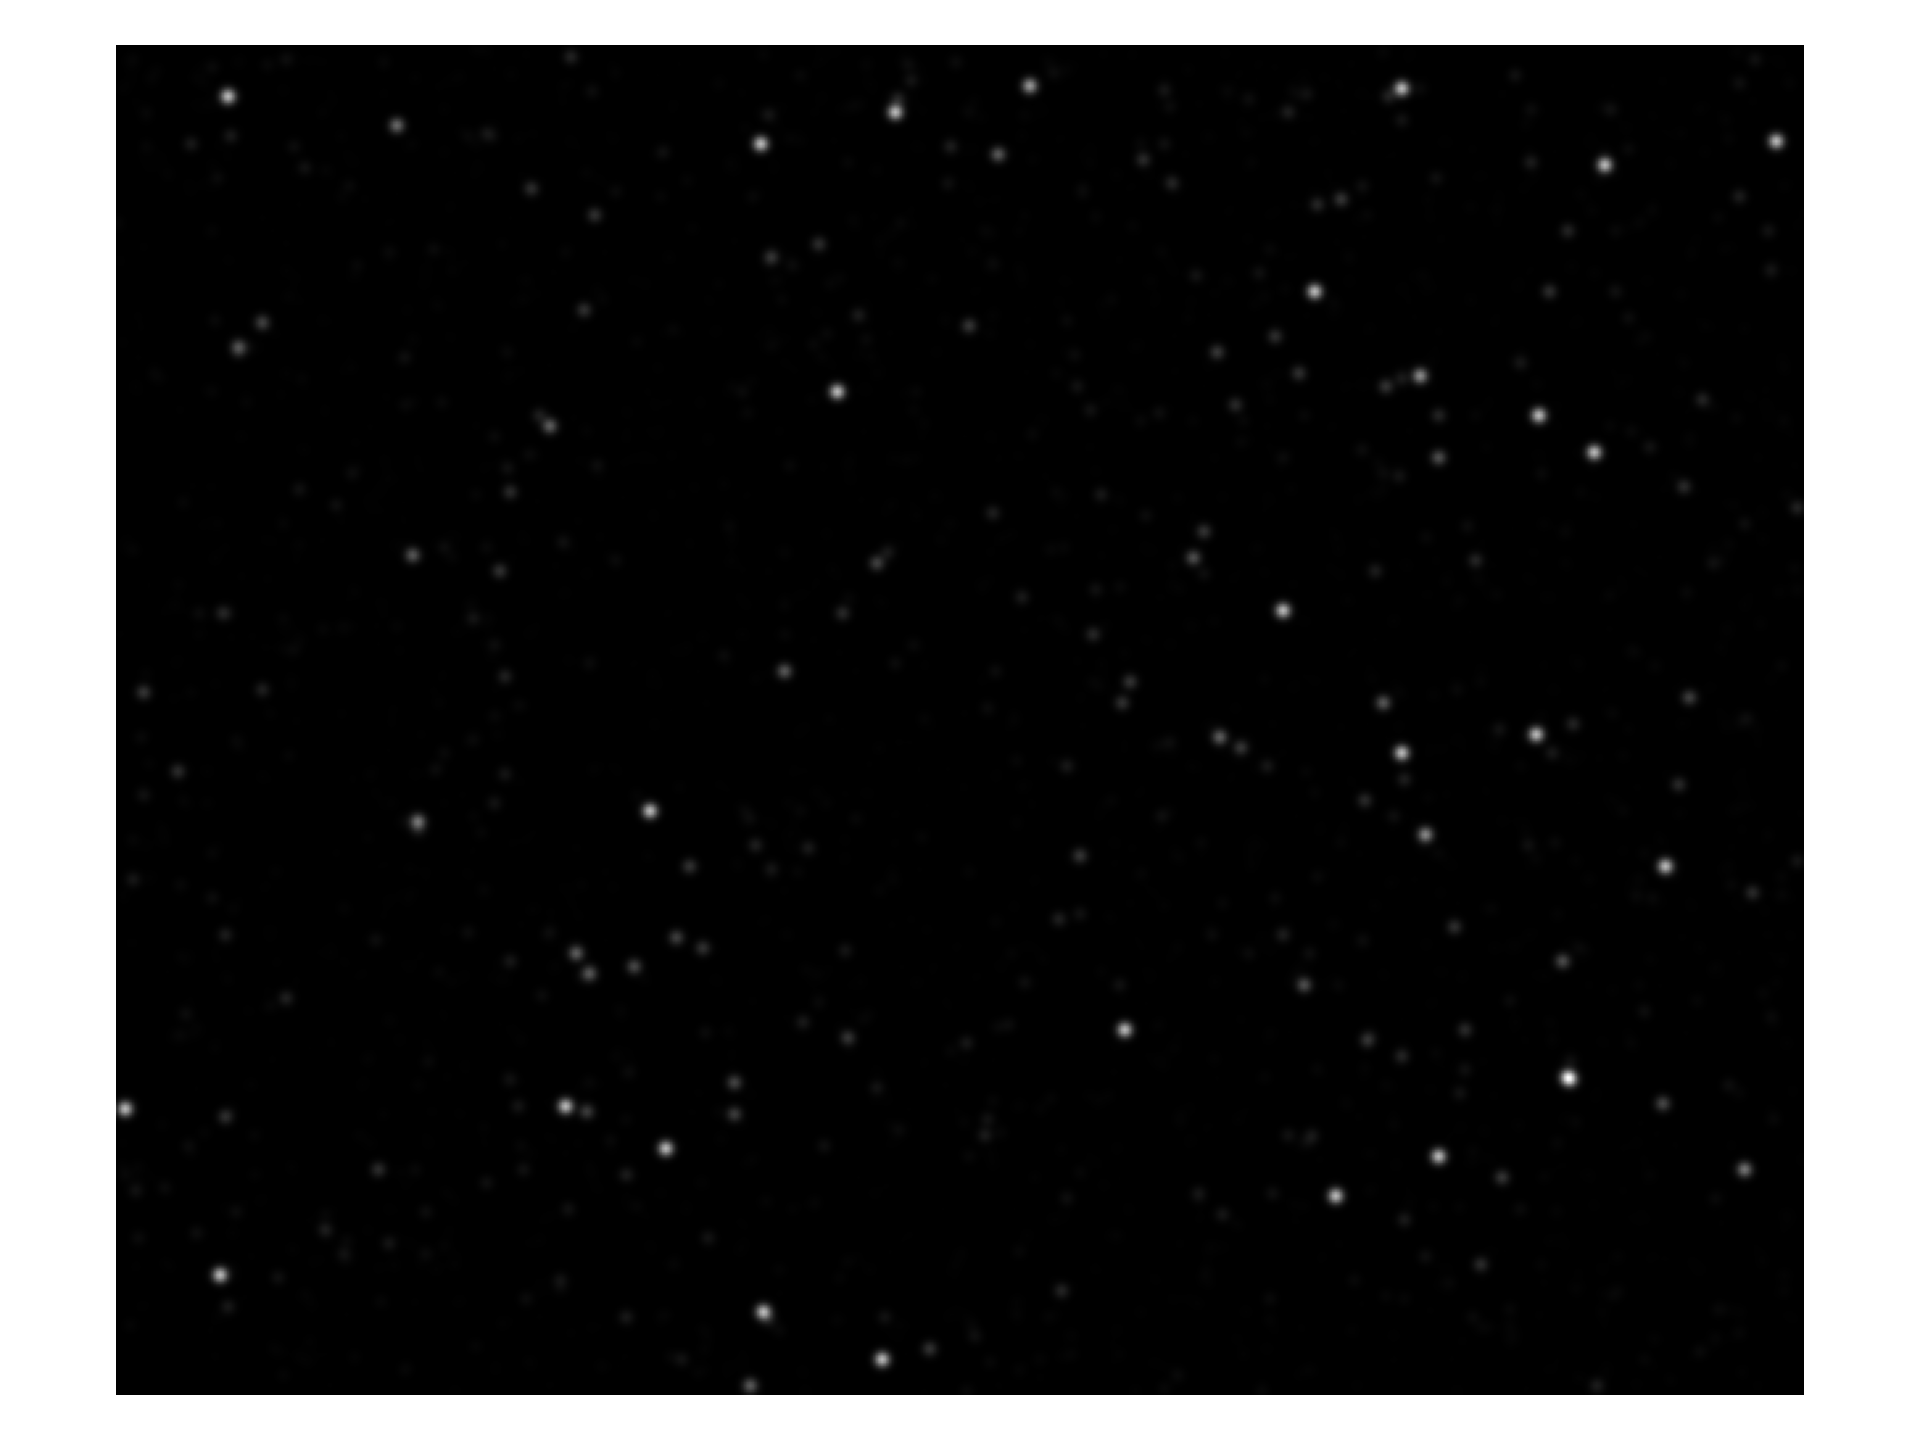
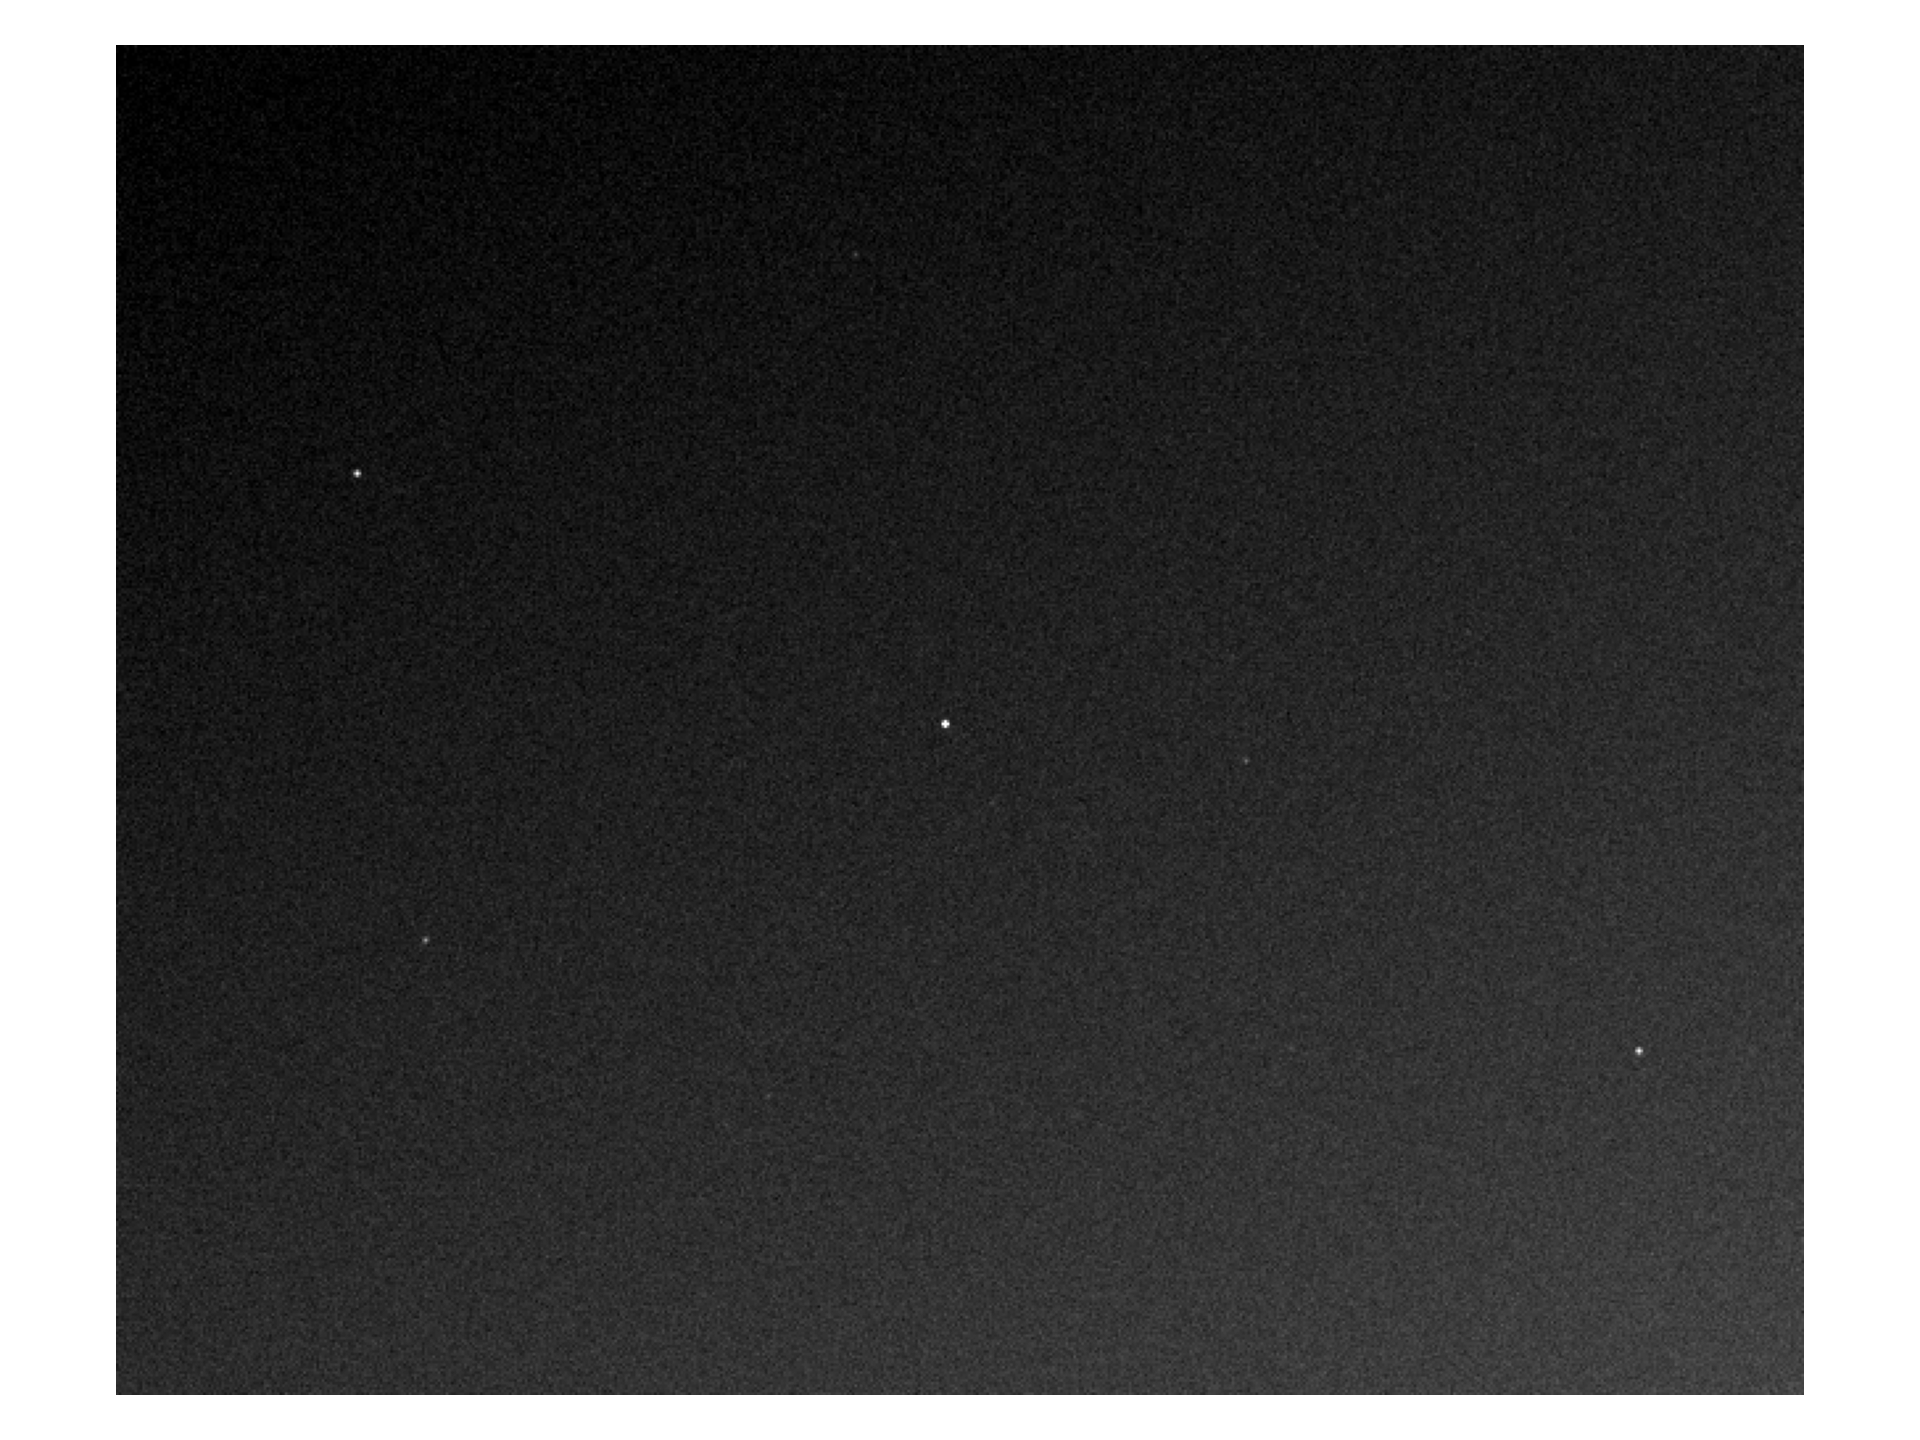
update

diff --git a/gen.py b/gen.py
@@ -6,7 +6,7 @@ import pandas as pd
 from scipy.spatial import cKDTree
 from astropy.convolution import Gaussian2DKernel
 from astropy.convolution import convolve
-
+from astropy.modeling import models
 
 # functions
 def find_orthogonal_set(vec):
@@ -44,6 +44,8 @@ print('max RA = ', np.max(data['_RAJ2000']))
 print('min RA = ', np.min(data['_RAJ2000']))
 print('max DEC = ', np.max(data['_DEJ2000']))
 print('min DEC = ', np.min(data['_DEJ2000']))
+#print the RA, DEC location of the brightest star in the catalogue
+print('brightest star: ', data.iloc[np.argmin(data['Hmag'])])
 
 
 # for each star in the catalogue, calcuate its estimated flux (F)
@@ -52,13 +54,21 @@ F0 = 1.133e-13 # W/m^2/micron^2
 m = data['Hmag'] # H-band magnitude
 F = F0 * 10**(-m/2.5) # flux in W/m^2/micron^2
 data['Flux'] = F
+optic_diameter = 57 # mm
+aperture_area = np.pi * (optic_diameter/2)**2 # mm^2
+# convert the aperture area to m^2
+aperture_area = aperture_area * 1e-6
+# convert the flux to W
+data['Flux'] = data['Flux'] * aperture_area
+
+
 
 energy_per_photon = 1.2e-19 # J
 
 # scale the flux of the stars to the exposure time of the image
 # this will be the
 #  flux of the star in the image
-exposure_time = 5 # seconds
+exposure_time = 300 # seconds
 data['Flux'] = data['Flux'] * exposure_time
 
 # for each star in the catalogue, calculate its position its cartesian coordinates on a unit sphere
@@ -71,8 +81,8 @@ data['z'] = np.sin(np.radians(data['_DEJ2000']))
 # this will be the centre of the image (x,y) = (0,0)
 # instrument field of view is 4.4 x 5.5 deg
 inst_FOV = [4.4, 5.5] # deg
-cen_RA = 180 # deg
-cen_DEC = 10 # deg
+cen_RA = 177.2 # deg
+cen_DEC = 14.57 # deg
 
 # calculate the cartesian coordinates of the centre of the field of view
 cen_x = np.cos(np.radians(cen_DEC)) * np.cos(np.radians(cen_RA))
@@ -145,15 +155,6 @@ on_plane['Flux'] = image['Flux']
 on_plane['count'] = on_plane['Flux'] / energy_per_photon
 on_plane['count'] = on_plane['count'].round(0).astype(int)
 
-# as the imager is 14 bit the max pixel value is 16383
-# threshold the pixel values above 16383 to 16383
-# print the length of the dataframe with count values above 16383
-print('number of thresholded pixels = ', len(on_plane[on_plane['count'] > 16383]))
-on_plane['count'][on_plane['count'] > 16383] = 16383
-
-
-
-
 
 # add half the dist of the image to the x and y coordinates
 on_plane['x'] = on_plane['x'] + dist_x/2
@@ -171,34 +172,73 @@ print('min x = ', np.min(on_plane['x']))
 print('max y = ', np.max(on_plane['y']))
 print('min y = ', np.min(on_plane['y']))
 
+# reset the index of the on_plane dataframe
+on_plane = on_plane.reset_index(drop=True)
+
 # create an image by placing the stars onto the camera plane
 # the x and y coordinates of the stars will be the pixels in the image, the flux will be the value of the pixel
 # this will be the image
 image = np.zeros((512, 640))
-# reset the index of the on_plane dataframe
-on_plane = on_plane.reset_index(drop=True)
+y , x = np.mgrid[0:512, 0:640]
+
+point_sources = on_plane[['count', 'x', 'y']].values
+
+for count, x, y in point_sources:
+    image[y, x] += count
+
+psf_size = 101  # Must be odd
+center = psf_size // 2
+y, x = np.ogrid[-center:center+1, -center:center+1]
+psf = np.exp(-(x*x + y*y) / (2*0.5))  # 25 controls the "width" of the Gaussian
+psf /= psf.sum()  # Normalize
+
+# convolve the image 
+from scipy.signal import convolve2d
+image = convolve2d(image, psf, mode='same')
 
 
-for i in range(len(on_plane)):
-    image[on_plane['y'][i], on_plane['x'][i]] += on_plane['count'][i]
+# add some random noise to the image
+image = image + np.random.normal(0, 500, image.shape)
 
-# apply a psf to the image
-# this will be the psf
-psf = Gaussian2DKernel(2)
-# convolve the image with the psf
-image = convolve(image, psf)
+# add some random "fixed pattern noise" to the image
+# Add vertical banding
+rows, cols = image.shape
+for col in range(0, cols, 10):
+    image[:, col:col+2] += 20  # Adding 20 intensity units as the banding pattern
 
-# convert the image to 14-bit
-image = image / np.max(image) * 16383
+# Add some hot pixels
+num_hot_pixels = 50
+for i in range(num_hot_pixels):
+    x, y = np.random.randint(0, rows), np.random.randint(0, cols)
+    image[x, y] += 500  # Adding 100 intensity units for hot pixels
+
+# add a gentle background gradient in a random direction
+x = np.arange(0, 640)
+y = np.arange(0, 512)
+X, Y = np.meshgrid(x, y)
+# create a random direction
+theta = np.random.uniform(0, 2*np.pi)
+# create a gradient in that direction
+Z = np.sin(theta) * X*6 + np.cos(theta) * Y*6
+# add the gradient to the image
+image = image + Z
+
+
+
+
+
+
+# apply a saturation limit to the image
+image[image > 16383] = 16383
+image[image < 0] = 0
+
+# convert the image to integer values
 image = image.round(0).astype(int)
 
 
 # print the min and max pixel values of the image
 print('max pixel value = ', np.max(image))  
 print('min pixel value = ', np.min(image))
-
-
-
 
 
 
@@ -234,28 +274,3 @@ hdu.writeto('test_owlsim.fits', overwrite=True)
 
 
 
-
-
-
-
-"""
-
-# Create an empty image (Owl has a 512x640 CCD)
-image = np.zeros((512, 640))
-
-
-
-# Scale the PSF by the star's flux (say the flux is 1000)
-flux = 1000
-scaled_psf = psf * flux
-
-# Place the star at the center of the image
-image[4:7, 4:7] += scaled_psf
-
-# Add noise (for simplicity, just using random Gaussian noise here)
-noise = np.random.normal(0, 10, image.shape)  # 0 mean, 10 standard deviation
-image += noise
-
-# Apply saturation limit (say 65535 for a 16-bit camera)
-image[image > 65535] = 65535
-"""
